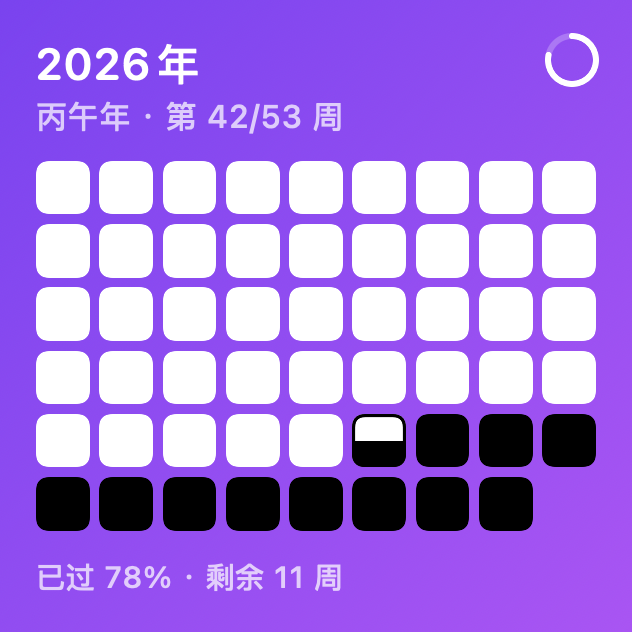
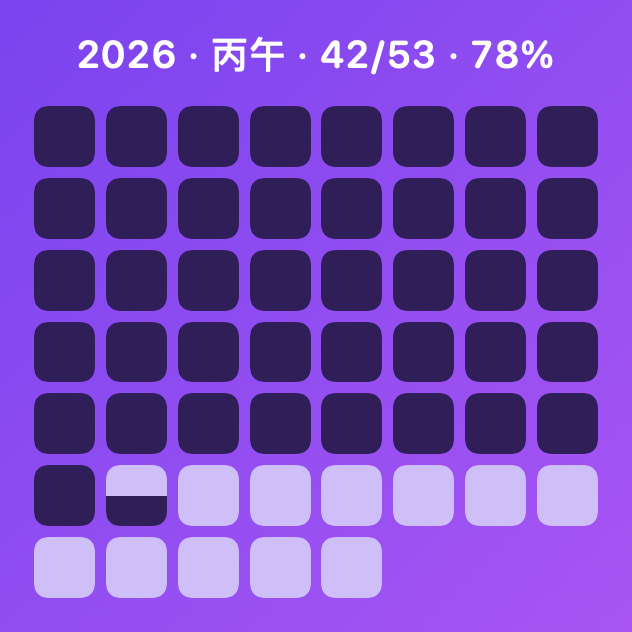
feat(ui): 顶部信息合并为一行居中；已过/未来改为同色系深浅两色（弱化视觉膨胀错觉）

diff --git a/Sources/YearProgressUI/YearProgressCardView.swift b/Sources/YearProgressUI/YearProgressCardView.swift
@@ -9,7 +9,7 @@ public enum CardChrome: Sendable {
     case widget
 }
 
-/// 卡片本体：左上「2026年 / 丙午年 · 第 42/53 周」，右上进度环，中间方块网格，底部一行统计。
+/// 卡片本体：顶部一行居中「2026年 · 丙午年 · 第 42/53 周 · 已过 78%」，下面是方块网格。
 /// App 与系统小组件共用同一份实现。
 public struct YearProgressCardView: View {
     public let progress: YearProgress
@@ -38,53 +38,46 @@ public struct YearProgressCardView: View {
 
     public var body: some View {
         let m = CardMetrics(size: size, profile: profile)
+        let note = progress.boundaryNote
         let layout = GridLayoutCalculator.compute(weekCount: progress.totalWeeks,
-                                                 available: m.gridArea,
+                                                 available: m.gridArea(noteVisible: note != nil),
                                                  preferredColumns: preferredColumns)
 
-        content(m: m, layout: layout)
+        content(m: m, layout: layout, note: note)
             .padding(m.padding)
-            .frame(width: size.width, height: size.height, alignment: .topLeading)
+            .frame(width: size.width, height: size.height, alignment: .top)
             .background(
                 LinearGradient(colors: theme.backgroundColors, startPoint: .topLeading, endPoint: .bottomTrailing)
             )
             .modifier(CardChromeModifier(chrome: chrome, cornerRadius: m.cornerRadius, theme: theme))
     }
 
-    private func content(m: CardMetrics, layout: WeekGridLayout) -> some View {
-        VStack(alignment: .leading, spacing: 0) {
-            header(m)
-            Spacer().frame(height: m.headerGap)
-            grid(layout, metrics: m)
-            Spacer(minLength: 0)
-            Text(progress.footerText)
-                .font(.system(size: m.footerFont, weight: .medium))
-                .foregroundStyle(theme.secondaryText)
+    private func content(m: CardMetrics, layout: WeekGridLayout, note: String?) -> some View {
+        VStack(spacing: 0) {
+            // 年份 + 干支 + 周计数 + 百分比，合并成顶部一行居中
+            Text(progress.headerText(compact: m.usesCompactHeader))
+                .font(.system(size: m.headerFont, weight: .semibold, design: .rounded))
+                .foregroundStyle(theme.primaryText)
                 .lineLimit(1)
-                .minimumScaleFactor(0.7)
-        }
-    }
+                .minimumScaleFactor(0.65)
+                .frame(maxWidth: .infinity, alignment: .center)
 
-    // MARK: 顶部
-
-    private func header(_ m: CardMetrics) -> some View {
-        HStack(alignment: .top, spacing: 0) {
-            VStack(alignment: .leading, spacing: max(1, m.scale * 3)) {
-                Text(progress.yearTitle)
-                    .font(.system(size: m.titleFont, weight: .semibold, design: .rounded))
-                    .foregroundStyle(theme.primaryText)
-                    .lineLimit(1)
-                    .minimumScaleFactor(0.6)
-                Text(progress.subtitle)
-                    .font(.system(size: m.subtitleFont, weight: .medium))
+            // 只有年初/年末那 1–3 天（跨年周）才补一行小字
+            if let note {
+                Text(note)
+                    .font(.system(size: m.noteFont, weight: .medium))
                     .foregroundStyle(theme.secondaryText)
                     .lineLimit(1)
-                    .minimumScaleFactor(0.6)
+                    .minimumScaleFactor(0.7)
+                    .padding(.top, m.noteGap)
+                    .frame(maxWidth: .infinity, alignment: .center)
             }
-            Spacer(minLength: 4)
-            ProgressRing(percent: progress.percent, size: m.ringSize, theme: theme)
+
+            // 网格在「头部以下的剩余空间」里垂直居中（不随尺寸变化而偏上/偏下）
+            grid(layout, metrics: m)
+                .padding(.top, m.headerGap)
+                .frame(maxWidth: .infinity, maxHeight: .infinity, alignment: .center)
         }
-        .frame(height: m.headerHeight, alignment: .top)
     }
 
     // MARK: 网格
@@ -137,7 +130,7 @@ private struct CardChromeModifier: ViewModifier {
     }
 }
 
-/// 一个方块 = 一周。
+/// 一个方块 = 一周。已过 = 黑块，未来 = 白块，本周 = 白底 + 从底部升起的黑色进度条。
 private struct WeekBlockView: View {
     let cell: WeekCell
     let side: CGFloat
@@ -150,7 +143,6 @@ private struct WeekBlockView: View {
         ZStack(alignment: .bottom) {
             RoundedRectangle(cornerRadius: radius, style: .continuous).fill(fill)
             if cell.state == .current {
-                // 本周：白色部分是「还没过完的」，从底部升起的黑色部分 = 本周已过的比例。
                 ZStack(alignment: .bottom) {
                     Color.clear
                     Rectangle()
@@ -180,10 +172,11 @@ private struct WeekBlockView: View {
     }
 
     private var stroke: (color: Color, width: CGFloat)? {
+        let width = max(0.8, side * 0.030)
         switch cell.state {
-        case .past: return nil
-        case .future: return theme.futureStroke.map { ($0, 1) }
-        case .current: return (theme.currentStroke, max(0.8, side * 0.045))
+        case .past: return theme.pastStroke.map { ($0, width) }
+        case .future: return theme.futureStroke.map { ($0, width) }
+        case .current: return nil
         }
     }
 
@@ -214,7 +207,7 @@ private struct TooltipModifier: ViewModifier {
     }
 }
 
-/// 右上角的年度进度环。
+/// 年度进度环（首页说明窗口还在用）。
 public struct ProgressRing: View {
     public let percent: Double
     public let size: CGFloat

diff --git a/Sources/YearProgressUI/CardMetrics.swift b/Sources/YearProgressUI/CardMetrics.swift
@@ -6,20 +6,21 @@ public enum CardProfile: Sendable {
     case app
     case widget
 
-    var titleRatio: Double { self == .app ? 0.045 : 0.055 }
-    var subtitleRatio: Double { self == .app ? 0.020 : 0.029 }
-    var footerRatio: Double { self == .app ? 0.0192 : 0.026 }
+    /// 顶部单行（年份 · 干支 · 周计数 · 百分比）
+    var headerRatio: Double { self == .app ? 0.0235 : 0.031 }
+    var headerRange: ClosedRange<CGFloat> { self == .app ? 11...26 : 9.5...14 }
+    /// 跨年周才出现的第二行小字
+    var noteRatio: Double { self == .app ? 0.0180 : 0.023 }
+    var noteRange: ClosedRange<CGFloat> { self == .app ? 8...17 : 7.5...10.5 }
 
-    var titleRange: ClosedRange<CGFloat> { self == .app ? 15...48 : 11...26 }
-    var subtitleRange: ClosedRange<CGFloat> { self == .app ? 7...22 : 8...13 }
-    var footerRange: ClosedRange<CGFloat> { self == .app ? 7...20 : 7.5...12 }
-
-    var paddingRatio: Double { self == .app ? 0.040 : 0.055 }
-    var paddingRange: ClosedRange<CGFloat> { self == .app ? 14...44 : 9...22 }
-    var headerGapRatio: Double { self == .app ? 0.027 : 0.035 }
-    var footerGapRatio: Double { self == .app ? 0.020 : 0.022 }
-    var ringRatio: Double { self == .app ? 0.043 : 0.070 }
+    var paddingRatio: Double { self == .app ? 0.036 : 0.050 }
+    var paddingRange: ClosedRange<CGFloat> { self == .app ? 12...40 : 8...20 }
+    var headerGapRatio: Double { self == .app ? 0.022 : 0.028 }
+    var noteGapRatio: Double { self == .app ? 0.006 : 0.008 }
     var cornerRatio: Double { self == .app ? 0.033 : 0.0 }
+
+    /// 小于这个宽度就用紧凑文案（small 小组件）
+    var compactWidthThreshold: CGFloat { self == .app ? 300 : 250 }
 }
 
 /// 所有尺寸由卡片宽度按比例推导，配合上下限，因此在 158pt 的小组件与 600pt 的大卡片上都成立。
@@ -44,20 +45,21 @@ public struct CardMetrics {
     public var padding: CGFloat { clamp(size.width * profile.paddingRatio, profile.paddingRange) }
     public var cornerRadius: CGFloat { size.width * profile.cornerRatio }
     public var headerGap: CGFloat { max(6, size.width * profile.headerGapRatio) }
-    public var footerGap: CGFloat { max(4, size.width * profile.footerGapRatio) }
+    public var noteGap: CGFloat { max(2, size.width * profile.noteGapRatio) }
 
-    public var titleFont: CGFloat { clamp(size.width * profile.titleRatio, profile.titleRange) }
-    public var subtitleFont: CGFloat { clamp(size.width * profile.subtitleRatio, profile.subtitleRange) }
-    public var footerFont: CGFloat { clamp(size.width * profile.footerRatio, profile.footerRange) }
-    public var ringSize: CGFloat { max(12, size.width * profile.ringRatio) }
+    public var headerFont: CGFloat { clamp(size.width * profile.headerRatio, profile.headerRange) }
+    public var noteFont: CGFloat { clamp(size.width * profile.noteRatio, profile.noteRange) }
 
-    public var headerHeight: CGFloat { titleFont * 1.16 + max(2, scale * 3) + subtitleFont * 1.30 }
-    public var footerHeight: CGFloat { footerFont * 1.32 }
+    public var headerHeight: CGFloat { headerFont * 1.35 }
+    public var noteHeight: CGFloat { noteFont * 1.32 }
 
-    /// 留给方块网格的空间。
-    public var gridArea: (width: Double, height: Double) {
+    public var usesCompactHeader: Bool { size.width < profile.compactWidthThreshold }
+
+    /// 留给方块网格的空间（不再是固定高度，底部/环去掉后网格能变大）。
+    public func gridArea(noteVisible: Bool) -> (width: Double, height: Double) {
+        var height = size.height - padding * 2 - headerHeight - headerGap
+        if noteVisible { height -= noteHeight + noteGap }
         let width = size.width - padding * 2
-        let height = size.height - padding * 2 - headerHeight - headerGap - footerGap - footerHeight
         return (Double(max(24, width)), Double(max(24, height)))
     }
 }

diff --git a/Sources/YearProgressUI/CardTheme.swift b/Sources/YearProgressUI/CardTheme.swift
@@ -29,19 +29,37 @@ public enum CardTheme: String, CaseIterable, Identifiable, Sendable {
     public var ringTrack: Color { Color.white.opacity(0.24) }
     public var ringProgress: Color { .white }
 
-    /// 已过周：白块。
-    public var pastFill: Color { .white }
-    /// 未来周：黑块。
-    public var futureFill: Color { .black }
-    /// 未来周在深色卡片上需要一层细描边，否则会糊进背景。
-    public var futureStroke: Color? {
+    // 两种状态都用「和底色同色系」的中明度色，不再用纯黑/纯白：
+    // 纯白在深底上会视觉膨胀、纯黑会收缩（Helmholtz 错觉）。让两边的明度差接近，
+    // 方块看起来就一样大了。紫色主题：深梅子 vs 浅薰衣草；石墨主题：深灰 vs 浅灰。
+
+    /// 已过周：深色。
+    public var pastFill: Color {
         switch self {
-        case .violet: return nil
-        case .graphite: return Color.white.opacity(0.22)
+        case .violet: return Color(red: 0.184, green: 0.118, blue: 0.341)   // #2F1E57 深梅子
+        case .graphite: return Color(red: 0.239, green: 0.239, blue: 0.263) // #3D3D43 深灰
         }
     }
-    /// 本周：白底 + 黑描边 + 从底部升起的黑色进度条。
-    public var currentFill: Color { .white }
-    public var currentStroke: Color { .black }
-    public var currentProgressFill: Color { .black }
+
+    /// 未来周：浅色。
+    public var futureFill: Color {
+        switch self {
+        case .violet: return Color(red: 0.812, green: 0.749, blue: 0.973)   // #CFBFF8 浅薰衣草
+        case .graphite: return Color(red: 0.796, green: 0.796, blue: 0.831) // #CBCBD4 浅灰
+        }
+    }
+
+    /// 只在深色（石墨）卡片上给深块留一圈极淡描边，避免和底色贴在一起。
+    public var pastStroke: Color? {
+        switch self {
+        case .violet: return nil
+        case .graphite: return Color.white.opacity(0.16)
+        }
+    }
+    /// 浅色块不需要描边（同色系之后不再「发胀」）。
+    public var futureStroke: Color? { nil }
+
+    /// 本周：浅色底（还没过）+ 从底部升起的深色进度条（已过）。
+    public var currentFill: Color { futureFill }
+    public var currentProgressFill: Color { pastFill }
 }

diff --git a/Sources/YearProgressCore/YearProgress.swift b/Sources/YearProgressCore/YearProgress.swift
@@ -61,6 +61,25 @@ public struct YearProgress: Sendable {
         return "\(ganzhi.yearName) · 第 \(currentWeek?.index ?? totalWeeks)/\(totalWeeks) 周"
     }
 
+    /// 顶部单行（完整版）："2026年 · 丙午年 · 第 42/53 周 · 已过 78%"
+    public func headerText(compact: Bool = false) -> String {
+        let p = Int(percent.rounded())
+        if compact {
+            if outOfGridWeek != nil { return "\(year) · \(ganzhi.name) · \(totalWeeks) 周 · \(p)%" }
+            return "\(year) · \(ganzhi.name) · \(currentWeek?.index ?? totalWeeks)/\(totalWeeks) · \(p)%"
+        }
+        if outOfGridWeek != nil {
+            return "\(yearTitle) · \(ganzhi.yearName) · 共 \(totalWeeks) 周 · 已过 \(p)%"
+        }
+        return "\(yearTitle) · \(ganzhi.yearName) · 第 \(currentWeek?.index ?? totalWeeks)/\(totalWeeks) 周 · 已过 \(p)%"
+    }
+
+    /// 只有「跨年周」那 1–3 天才出现的第二行小字。
+    public var boundaryNote: String? {
+        guard let outside = outOfGridWeek else { return nil }
+        return "本周属于 \(outside.year) 年第 \(outside.index) 周"
+    }
+
     /// "已过 78% · 剩余 11 周"；跨年周时说明本周到底属于哪一年。
     public var footerText: String {
         let p = Int(percent.rounded())

diff --git a/Tests/YearProgressCoreTests/ProgressTests.swift b/Tests/YearProgressCoreTests/ProgressTests.swift
@@ -35,6 +35,22 @@ struct ProgressTests {
         #expect(p.outOfGridWeek == nil)
     }
 
+    @Test("顶部单行：年份 · 干支 · 周计数 · 百分比（含紧凑版）")
+    func headerTextFormat() {
+        let p = progress("2026-10-15 12:00")
+        #expect(p.headerText() == "2026年 · 丙午年 · 第 42/53 周 · 已过 78%")
+        #expect(p.headerText(compact: true) == "2026 · 丙午 · 42/53 · 78%")
+        #expect(p.boundaryNote == nil)
+
+        let q = progress("2025-12-30 12:00")
+        #expect(q.headerText() == "2025年 · 乙巳年 · 共 52 周 · 已过 100%")
+        #expect(q.boundaryNote == "本周属于 2026 年第 1 周")
+
+        let r = progress("2027-01-01 12:00")
+        #expect(r.headerText() == "2027年 · 丁未年 · 共 52 周 · 已过 0%")
+        #expect(r.boundaryNote == "本周属于 2026 年第 53 周")
+    }
+
     @Test("网格连续、无空洞，且覆盖整年")
     func cellsAreContiguous() {
         let p = progress("2026-06-01 12:00")

diff --git a/README.md b/README.md
@@ -1,7 +1,11 @@
 # 年进度小组件 · YearProgress
 
-把「一年里的每一周」画成一格小方块：**已过的周是白块，未来的周是黑块，本周是白底黑边并从底部升起黑色进度条**。
-左上角是年份与干支纪年，右上角是年度进度环，底部一行统计。
+把「一年里的每一周」画成一格小方块：**已过的周是深色块，未来的周是浅色块，本周是浅底 + 从底部升起的深色进度条**。
+顶部一行居中显示「2026年 · 丙午年 · 第 42/53 周 · 已过 78%」，下面是方块网格。
+
+两种状态的颜色都和底色同色系、明度差接近：紫色主题是**深梅子 `#2F1E57` / 浅薰衣草 `#CFBFF8`**。
+（用纯白/纯黑时，浅色在深底上会视觉「发胀」、深色会「收缩」，同尺寸看起来就是不一样大；
+实测两者几何都是 38×38px，纯粹是错觉，所以改用对比更柔和的一对色。）
 
 ![2026 年（53 周，自动选 14 列）](docs/preview-2026.png)
 
@@ -94,11 +98,11 @@ pluginkit -m -v -p com.apple.widgetkit-extension | grep -i yearprogress
 |---|---|
 | 一年几周 | **ISO 8601**：周一为首日、第 1 周含 1 月 4 日 → 52 或 53 周。不自己推公式，用系统日历取值；同时用「1 月 1 日是周四，或闰年且 1 月 1 日是周三 → 53 周」的独立规则做**交叉校验**（1990–2060 逐年比对）。 |
 | 年份 | **按当前公历年**：2025-12-30 显示「2025年 · 乙巳年」，不会被 ISO 周年度带到 2026。 |
-| 跨年周 | 一年 52/53 周，但年初/年末会有 1–3 天落在「跨年周」里（如 12-29…12-31 属于次年 ISO 第 1 周；1 月 1–3 日属于上一年 ISO 的最后一周）。此时网格里没有「本周」，底部会写明「本周属于 2026 年第 1 周」，进度自然显示 100% 或 0%。逐日校验 2019–2031 × 4 个时区，且断言跨年窗口每月最多 3 天。 |
+| 跨年周 | 一年 52/53 周，但年初/年末会有 1–3 天落在「跨年周」里（如 12-29…12-31 属于次年 ISO 第 1 周；1 月 1–3 日属于上一年 ISO 的最后一周）。此时网格里没有「本周」，顶部会多一行小字写明「本周属于 2026 年第 1 周」，进度自然显示 100% 或 0%。逐日校验 2019–2031 × 4 个时区，且断言跨年窗口每月最多 3 天。 |
 | 干支纪年 | 按公历年换算：2026 → **丙午年（马）**，2025 → 乙巳年。农历意义上的换年（春节/立春）未接入，如需精确到节气，改 `Ganzhi(year:)` 一处即可。 |
-| 本周进度 | 从周一 00:00 起按 7 天线性折算，体现在方块从底部升起的黑色比例上。 |
+| 本周进度 | 从周一 00:00 起按 7 天线性折算，体现在方块从底部升起的深色比例上。 |
 | 自动刷新 | 定时到下一个零点 + 系统跨天通知 + 睡眠唤醒 + 时区变更，都会重算。 |
-| 深色卡片 | 黑块在深色卡片上会糊进背景，因此石墨主题给黑块加了 1px 半透明白描边；紫色主题不需要。 |
+| 配色 | 不用纯黑/纯白：与底色同色系的「深 + 浅」一对色，明度差左右对称，方块不会一大一小。石墨主题给深色块留 1px 半透明描边，避免与卡片底色粘连。 |
 
 ## 项目结构
 
@@ -112,7 +116,7 @@ Sources/
     Ganzhi.swift             天干地支生肖
     GridLayout.swift         列数、行数、方块边长、间距、每行几个
   YearProgressUI/           App 与小组件共用的视图层（SwiftUI）
-    YearProgressCardView.swift 卡片视图（网格、进度环、方块），支持 app / widget 两种档位
+    YearProgressCardView.swift 卡片视图（顶部单行 + 网格 + 方块），支持 app / widget 两种档位
     CardTheme.swift / CardMetrics.swift   配色与尺寸推导（含字号上下限）
   YearProgressWidget/        WidgetKit 扩展（TimelineProvider + Widget + WidgetBundle）
   YearProgressMac/           macOS 宿主 App（AppKit + SwiftUI）

diff --git a/PLAN.md b/PLAN.md
@@ -1,6 +1,6 @@
 # 年度周进度小组件 · 技术方案
 
-> 目标：用「一年的周」构成小方块网格，已过的周为白块，未来为黑块。跨 macOS / iOS / Android。
+> 目标：用「一年的周」构成小方块网格，已过 / 未来两种状态用一对与底色同色系的深浅色区分。跨 macOS / iOS / Android。
 > 本机环境实测于 2026-10-15，见 §3。**按你的要求，全程不安装任何环境。**
 
 ---
@@ -30,9 +30,13 @@
 |---|---|---|
 | 主体 | 一年内的周，一格一周 | ISO 8601 周（周一起始，第 1 周含 1/4） |
 | 网格规模 | 「几个周展示几具小方块」 | 52 或 53 格，自动判定 |
-| 已过 | 白块 | 白 `#FFFFFF` 实心块 |
-| 未来 | 黑块 | 黑 `#000000` 实心块 |
-| 当前周 | 未指定 | **白底 + 黑描边 + 细进度条**（三态，一眼看到「我在哪」） |
+| 已过 | 白块 | **深梅子 `#2F1E57`**（紫色主题） |
+| 未来 | 黑块 | **浅薰衣草 `#CFBFF8`**（紫色主题） |
+| 当前周 | 未指定 | **浅底 + 从底部升起的深色进度条**（一眼看到「我在哪」） |
+
+> 2026-10-24 修订：按用户要求把黑白互换（已过=深、未来=浅），并且不再用纯黑/纯白——
+> 纯白在深底上会视觉膨胀、纯黑会收缩，同尺寸会"看起来不一样大"。改为同色系、明度差相当的一对色，
+> 同时把「年份 / 干支 / 周计数 / 百分比」合并成顶部一行居中、去掉底部统计行与右上进度环，网格因此变大。
 | 平台 | mac / iOS / Android，各自编译 | 一套纯逻辑核心 + 三个平台薄壳 |
 | 顺序 | 先 mac（Swift），再试 iOS | M1 先交可跑可看的 mac 版 |
 
@@ -46,8 +50,8 @@
   ▣ ▣ ▣ ▣ ▣ ▣ ▣ ▣ ▣ ▣ ▣ ▣ ▣
   ▣ ▣ ▣ ▣ ◪ ▢ ▢ ▢ ▢ ▢ ▢ ▢ ▢
   ▣
-  已过 78% · 剩余 11 周
-  ▣ = 已过周(白)   ▢ = 未来周(黑)   ◪ = 当前周(白底黑边+底部进度条)
+  （顶部单行居中：2026年 · 丙午年 · 第 42/53 周 · 已过 78%）
+  ▣ = 已过周(深)   ▢ = 未来周(浅)   ◪ = 当前周(浅底 + 底部深色进度条)
 ```
 
 ---
@@ -163,10 +167,11 @@ public struct YearProgress {
 **路线：A + B 一起做（同一份 Core 与视图），M3 再尝试 C。** 因为 A/B 共用同一个 SwiftUI 视图，成本只多一个窗口壳。
 
 ### 5.2 视觉与配色
-- 已过周：白实心；未来周：黑实心；当前周：白底 + 黑描边 + 底部细进度条。
-- **深色模式**：黑白字面保留（尊重你的要求），但深色背景下给**黑块加 1px 半透明白描边**，否则黑块会糊在背景里看不见；窗口底色用材质/浅灰，保证对比。可用设置项切到「随系统自适应」。
+- 已过周：深梅子实心；未来周：浅薰衣草实心；当前周：浅底 + 从底部升起的深色进度条。
+- **配色原则**：不用纯黑/纯白，改用与底色同色系、明度差相当的一对色，避免「浅色发胀 / 深色收缩」的错觉；
+  石墨主题另外给深色块加 1px 半透明描边，防止与卡片底色粘连。
 - 圆角：`s * 0.22`；间距随尺寸缩放，整体气质偏克制、无阴影堆叠。
-- 信息层（可开关）：年份、`第 42 / 53 周`、`已过 78%`。
+- 信息层：**顶部一行居中** —— 年份 · 干支 · `第 42/53 周` · `已过 78%`；跨年周时补一行小字。
 - 交互：悬停某格显示 tooltip「第 42 周 · 10/12–10/18 ✅」。
 - 可访问性：每格 `accessibilityLabel`，整体合并为一句摘要；黑白两态天然色盲友好，不靠颜色单独承载信息。
 
